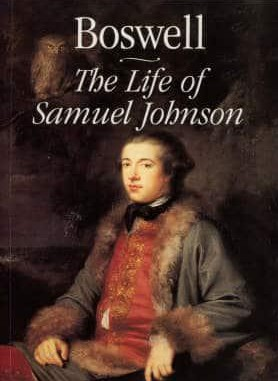
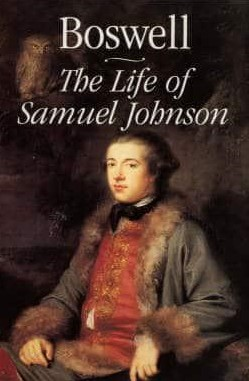
v1.1.3

diff --git a/css/mobileFirst.css b/css/mobileFirst.css
@@ -3,7 +3,6 @@
 }
 body{
 	background-color: #2F4F4F;
-	margin: 1%;
 }
 .Column{
 		width: 80%;
@@ -78,22 +77,23 @@ img{
 .Author{
 	font-family: Syne, sans-serif;
 	font-weight: 500;
-	font-size: 0.9rem;
+	font-size: 1.1rem;
 	position: absolute;
-	top: 25%;
-	left: 57%;
+	top: 5%;
+	left: 45%;
 	width: 40%;
 	height: 10%;
+
 }
 h5{
 	font-family: 'Noto Sans', sans-serif;
-	font-size: 1rem;
+	font-size: 1.2rem;
 	margin-top: 1%;
 	color: white;
 	position: absolute;
-	left: 57%;
-	top: 40%;
-	width: 40%;
+	left: 44%;
+	top: 25%;
+	width: 45%;
 	height: 10%;
 	color: white;
 
@@ -142,12 +142,35 @@ h5{
 	.Column{
 		width: 30%;
 	}
+	.Author{
+		text-align: center;
+		height: 20%;
+		position: static;
+		font-size: 1rem;
+		width: 100%;
+	}
+	h5{
+		font-size: 0.9rem;
+		position: static;
+		text-align: center;
+		width: 90%;
+		height: 20%;
+	}
+	img{
+		float: none;
+		height: 65%;
+		display: block;
+		margin: 0 auto;
+	}
 }
 
 /*for desktops*/
 @media screen and (min-width: 1280px){
 	.Column{
 		width: 15%;
+	}
+	.Author{
+		margin-top: 2%;
 	}	
 }
 

diff --git a/index.html b/index.html
@@ -221,7 +221,7 @@
 					
 					<h5 class="bookName">Faust</h5>
 					<img src="imgs/Faust.jpg">
-					<span class="Author">Johann Goethe</span>
+					<span class="Author">Goethe</span>
 				</div>
 			</div>
 			<div class="Column Lit">
@@ -705,7 +705,7 @@
 					
 					<h5 class="bookName">The Advancement of Learning</h5>
 					<img src="imgs/bacon1.jpg">
-					<span class="Author">Sir Francis Bacon</span>
+					<span class="Author">Francis Bacon</span>
 				</div>
 			</div>
 			<div class="Column Phi">
@@ -713,7 +713,7 @@
 					
 					<h5 class="bookName">Novum Organum</h5>
 					<img src="imgs/bacon2.jpg">
-					<span class="Author">Sir Francis Bacon</span>
+					<span class="Author">Francis Bacon</span>
 				</div>
 			</div>
 			<div class="Column Phi">
@@ -721,7 +721,7 @@
 					
 					<h5 class="bookName">New Atlantis</h5>
 					<img src="imgs/the-new-atlantis.jpg">
-					<span class="Author">Sir Francis Bacon</span>
+					<span class="Author">Francis Bacon</span>
 				</div>
 			</div>
 			<div class="Column Phi">
